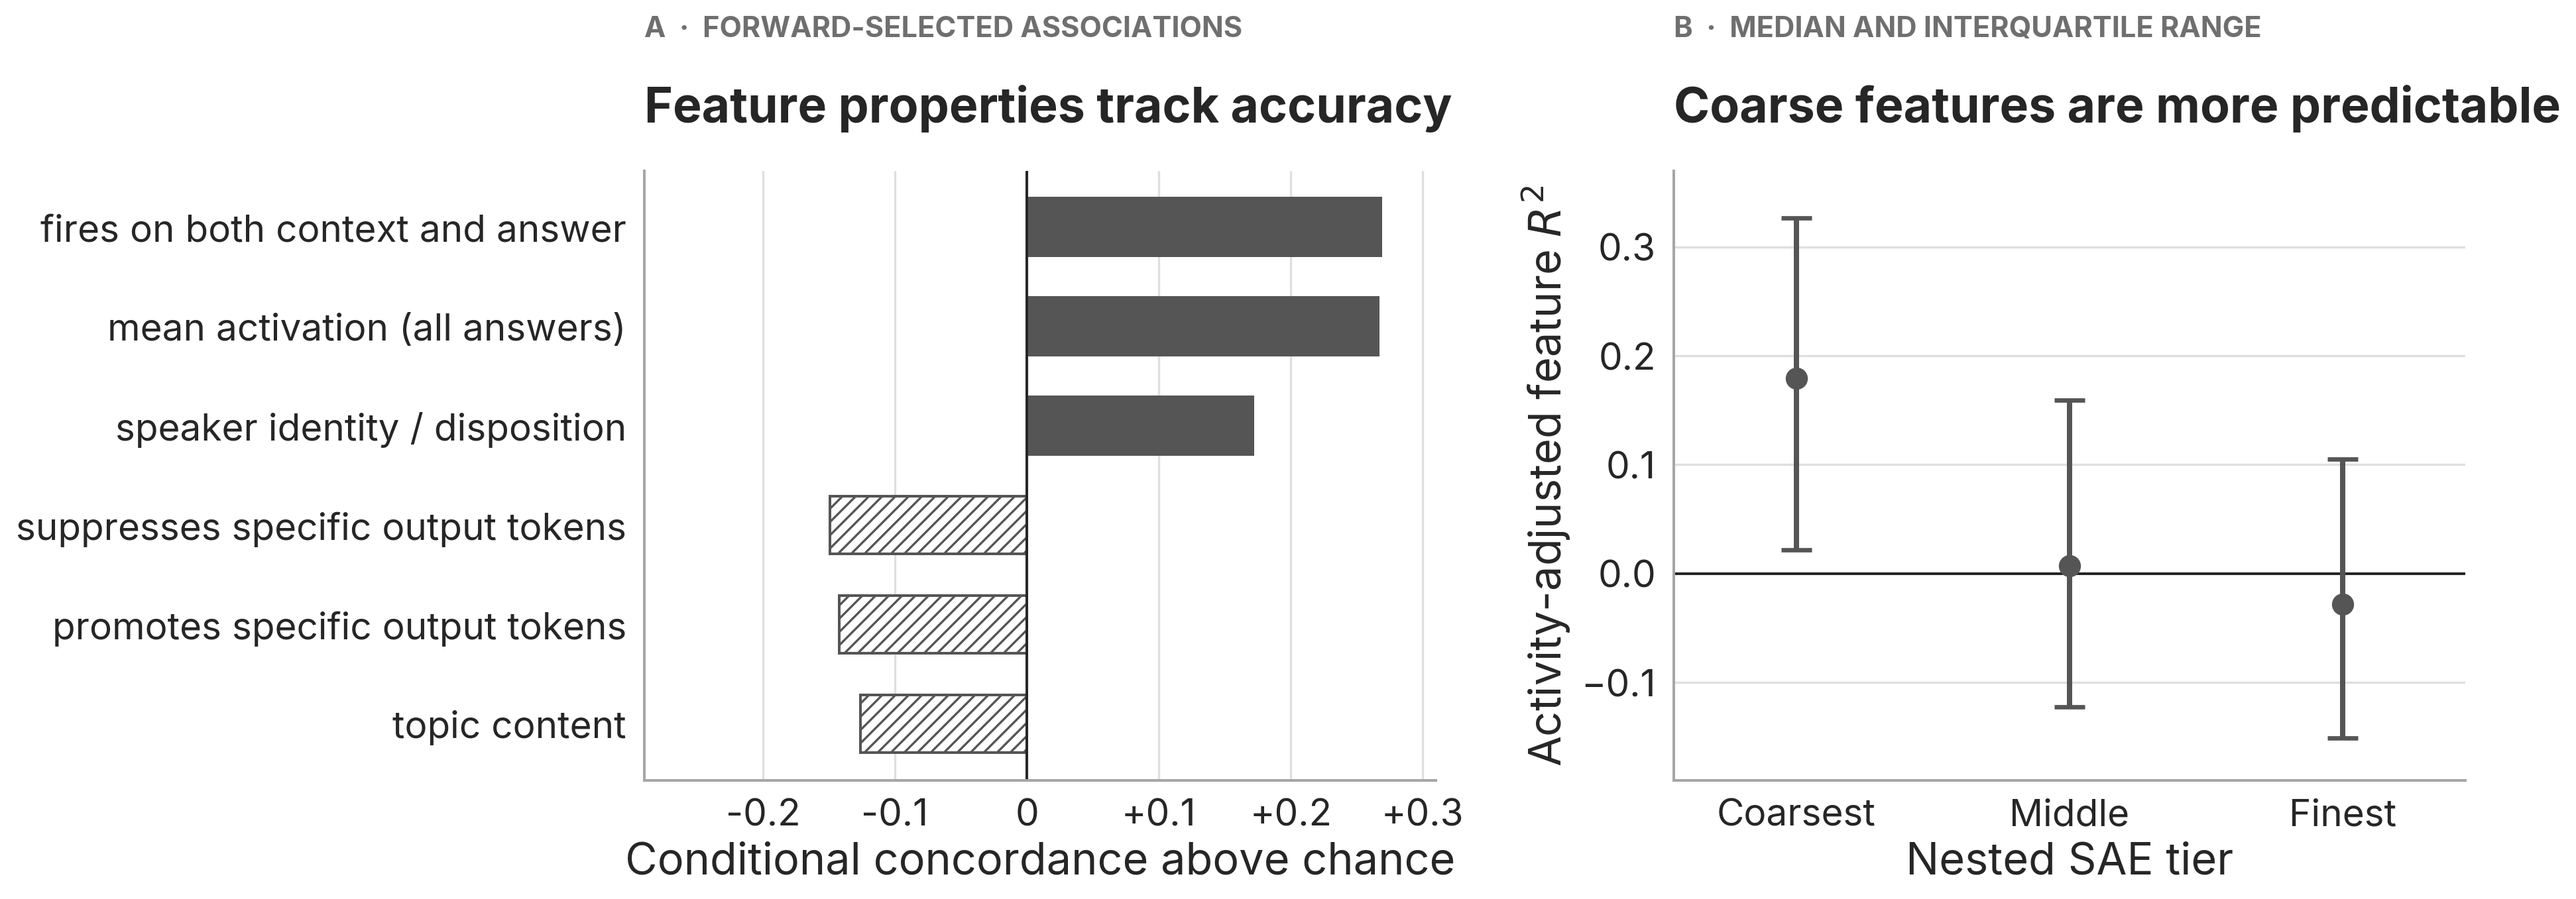
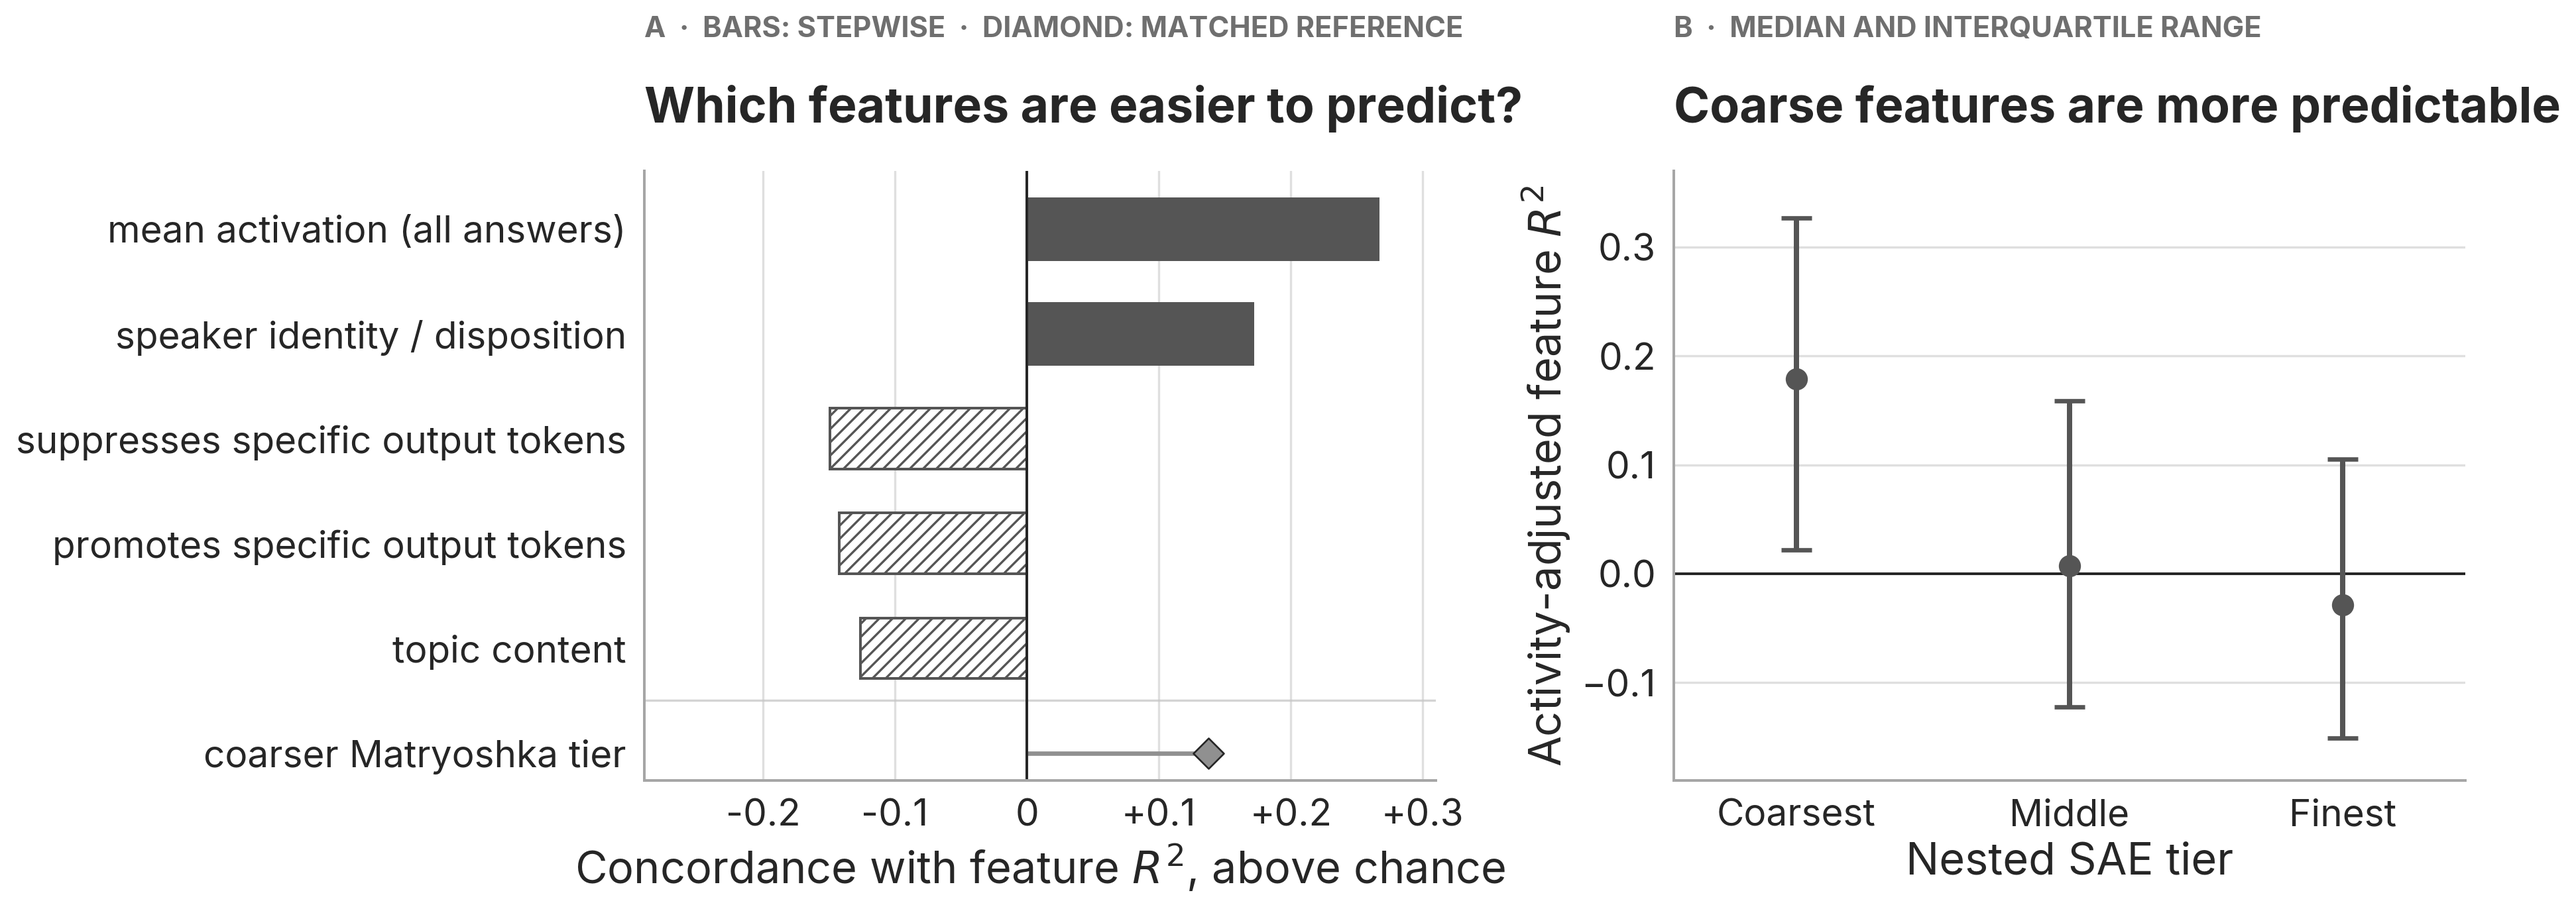
Update SAE feature-property figure

diff --git a/scripts/make_paper_section42_figures.py b/scripts/make_paper_section42_figures.py
@@ -42,6 +42,9 @@ from explore_persona_space.analysis.c2a_plot_style import (  # noqa: E402
 DEFAULT_OUT = ROOT / "figures/paper"
 QUAL_SOURCE = ROOT / "eval_results/issue_2478/selected_examples.json"
 SAE_SOURCE = ROOT / "eval_results/issue_1482/plot4_redesign/plot4_redesign.json"
+SAE_MATCHED_SOURCE = (
+    ROOT / "figures/issue_1482/concordance/writeup_concordance.meta.json"
+)
 MINPAIR_SOURCE = ROOT / "eval_results/issue_2564/minpair_delta.json"
 PERSONA_SOURCE = (
     ROOT / "eval_results/issue_2564/floor-failed-reelicitation/minpair_delta_ffr.json"
@@ -308,8 +311,29 @@ def make_qualitative_figure(rows: list[dict]) -> plt.Figure:
 
 def _sae_data() -> dict:
     source = json.loads(SAE_SOURCE.read_text())
-    rows = source["left_panel"]["rows"][:6]
-    assert [row["label"] for row in rows] == source["left_panel"]["rendered_labels"]
+    all_rows = source["left_panel"]["rows"]
+    hidden_control = all_rows[0]
+    assert hidden_control["banked_name"] == "Fires on BOTH context and answer side"
+    rows = all_rows[1:6]
+    assert [hidden_control["label"], *[row["label"] for row in rows]] == source[
+        "left_panel"
+    ]["rendered_labels"]
+
+    matched_source = json.loads(SAE_MATCHED_SOURCE.read_text())
+    matryoshka_name = "Matryoshka dictionary tier (coarser = earlier tier)"
+    (matryoshka_source,) = [
+        row for row in matched_source["values"] if row["name"] == matryoshka_name
+    ]
+    matryoshka = {
+        "banked_name": matryoshka_name,
+        "label": "coarser Matryoshka tier",
+        "value": float(matryoshka_source["matched"] - 0.5),
+        "winner_c": float(matryoshka_source["matched"]),
+        "n": int(matryoshka_source["n_pos"]),
+        "kind": "activity-matched reference",
+        "arm": matryoshka_source["arm"],
+    }
+    rows = [{**row, "kind": "forward-selected association"} for row in rows]
     tiers = []
     for key, label in (("0", "Coarsest"), ("1", "Middle"), ("2", "Finest")):
         cell = source["right_panel"]["per_tier"][key]
@@ -323,7 +347,8 @@ def _sae_data() -> dict:
             }
         )
     return {
-        "properties": rows,
+        "properties": [*rows, matryoshka],
+        "hidden_control": hidden_control,
         "tiers": tiers,
         "spearman_raw": float(source["right_panel"]["spearman_tier_r2_raw"]),
         "spearman_adjusted": float(
@@ -353,23 +378,42 @@ def make_sae_figure(data: dict) -> plt.Figure:
     props = data["properties"]
     y = np.arange(len(props))[::-1]
     values = np.asarray([row["value"] for row in props])
-    bars = ax_left.barh(y, values, height=0.58, color=LINEAR, edgecolor=LINEAR, linewidth=1.2)
-    for bar, value in zip(bars, values, strict=True):
+    bars = ax_left.barh(
+        y[:-1],
+        values[:-1],
+        height=0.58,
+        color=LINEAR,
+        edgecolor=LINEAR,
+        linewidth=1.2,
+    )
+    for bar, value in zip(bars, values[:-1], strict=True):
         if value < 0:
             bar.set_facecolor(PAPER)
             bar.set_hatch("////")
+    ax_left.axhline(0.5, color=GRID, lw=1.0, alpha=0.75)
+    ax_left.hlines(y[-1], 0, values[-1], color=CONTROL, lw=2.0, zorder=2)
+    ax_left.scatter(
+        values[-1],
+        y[-1],
+        marker="D",
+        s=95,
+        color=CONTROL,
+        edgecolor=INK,
+        linewidth=0.8,
+        zorder=3,
+    )
     ax_left.axvline(0, color=INK, lw=1.2)
     ax_left.set_yticks(y, [row["label"] for row in props])
     ax_left.set_xlim(-0.29, 0.31)
     ax_left.set_xticks(np.arange(-0.2, 0.31, 0.1))
     ax_left.xaxis.set_major_formatter(FuncFormatter(lambda x, _p: f"{x:+.1f}" if x else "0"))
-    ax_left.set_xlabel("Conditional concordance above chance")
+    ax_left.set_xlabel("Concordance with feature $R^2$, above chance")
     _plain_axis(ax_left)
-    ax_left.set_title("Feature properties track accuracy", loc="left", y=1.08, pad=0, fontweight=650)
+    ax_left.set_title("Which features are easier to predict?", loc="left", y=1.08, pad=0, fontweight=650)
     ax_left.text(
         0,
         1.21,
-        "A  ·  FORWARD-SELECTED ASSOCIATIONS",
+        "A  ·  BARS: STEPWISE  ·  DIAMOND: MATCHED REFERENCE",
         transform=ax_left.transAxes,
         fontsize=13,
         fontweight=750,
@@ -623,7 +667,7 @@ def main() -> None:
         title="SAE feature properties and context-to-answer predictability",
         subject="Conditional feature-property associations and activity-adjusted nested-tier gradient",
         font=font,
-        sources=[SAE_SOURCE],
+        sources=[SAE_SOURCE, SAE_MATCHED_SOURCE],
         displayed_data=sae,
         rendering_size=(14.4, 6.5),
     )
